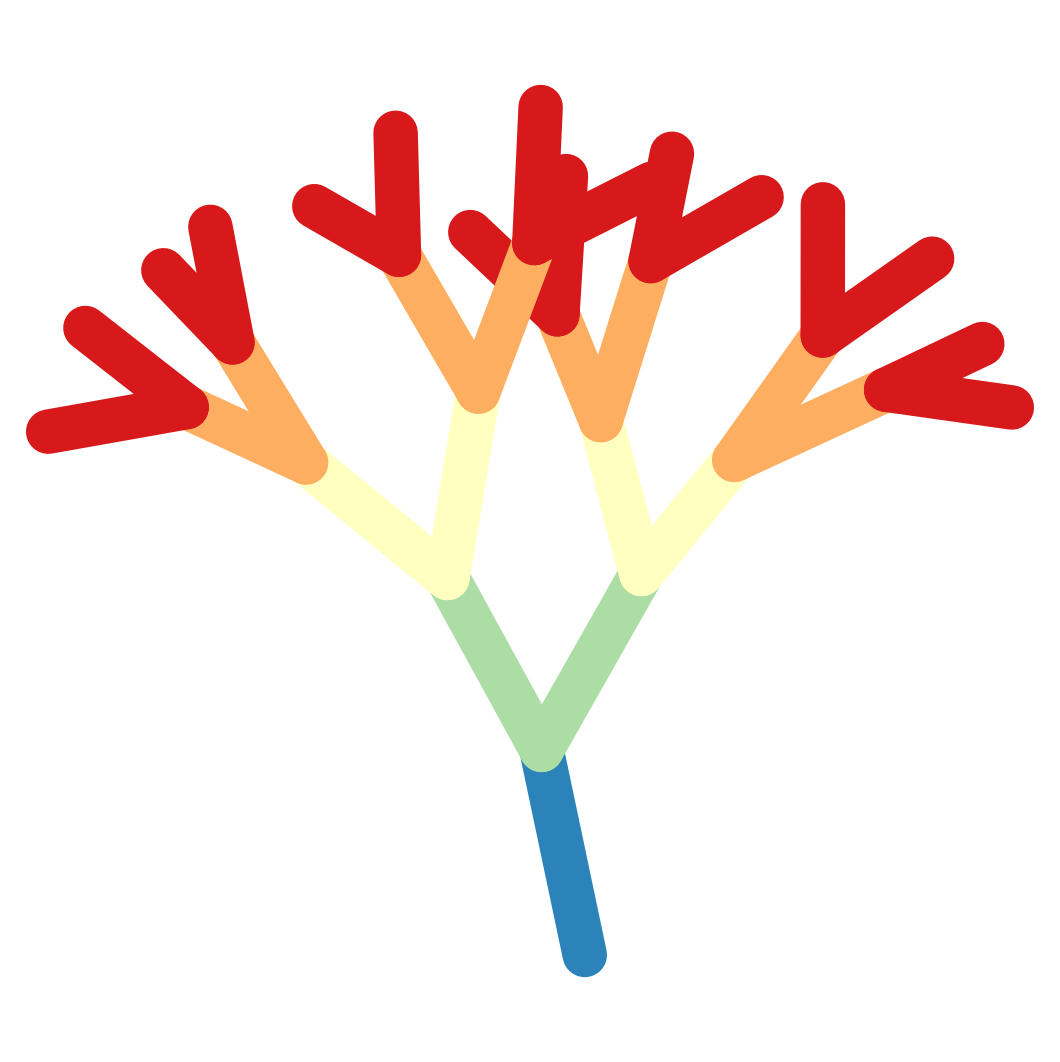
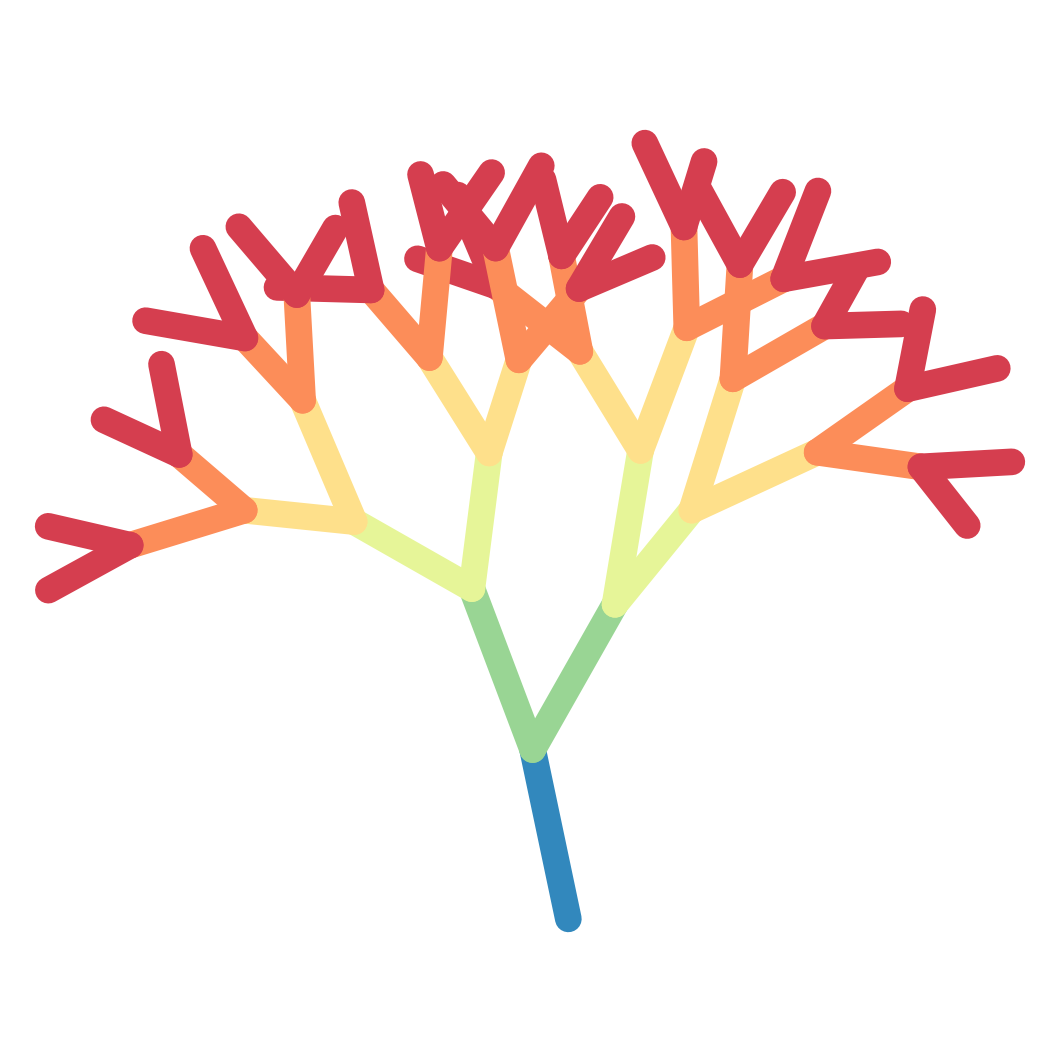
Update sitemap

Changed region(s): [[0.0311, 0.0621, 0.9962, 0.9322]]

diff --git a/index.html b/index.html
@@ -209,7 +209,36 @@
         <h2>Creative Coding Experiments</h2>
         I think creative coding and generative art is pretty interesting. I've been playing with different techniques and ideas. These pieces are still rough, but they were fun to make.
 
-        
+        <div class="section-item">
+          <a href="files/shell.html" onclick="trackOutboundLink(event, 'creative-coding', 'shell');">
+            <img src="images/shell.png" alt="shell" class="section-image">
+          </a>
+          <div class="project-description">
+            <span class="highlight">Shell</span> 
+            &nbsp; 
+            <br class="large-screen-only">
+            <a href="files/shell.html" onclick="trackOutboundLink(event, 'creative-coding', 'shell');">Code</a>
+            &nbsp; 
+            <br class="large-screen-only">
+            This is likely my first creative coding experiment. It's a simple connect-the-dots program that generates a spiral pattern resembling a shell.
+          </div>
+        </div>          
+
+        <div class="section-item">
+          <img src="images/faces.png" alt="perspective" class="section-image">
+          <!-- <a href="files/perspective.html" onclick="trackOutboundLink(event, 'creative-coding', 'perspective');">
+            <img src="images/faces.png" alt="perspective" class="section-image">            
+          </a> -->
+          <div class="project-description">
+            <span class="highlight">Perspective (WIP)</span> 
+            &nbsp; 
+            <!-- <br class="large-screen-only"> -->
+            <!-- <a href="files/perspective.html" onclick="trackOutboundLink(event, 'creative-coding', 'perspective');">Code</a> -->
+            <!-- &nbsp;  -->
+            <br class="large-screen-only">
+            The code visualizes the intersection of 2D planes in 3D space. A perspective transformation is applied to create the illusion of depth. The result is an abstract composition of interlocking blue, gray, and orange planes.
+          </div>
+        </div>
 
         <div class="section-item">
           <a href="files/fractal-tree.html" onclick="trackOutboundLink(event, 'generative-art', 'fractal-tree');">
@@ -222,7 +251,7 @@
             <a href="files/fractal-tree.html" onclick="trackOutboundLink(event, 'generative-art', 'fractal-tree');">Code</a>
             &nbsp; 
             <br class="large-screen-only">
-            The code generates a fractal tree with branches that vary in angle and length to create a more natural appearance.
+            The code generates a fractal tree using a recursive function. Slight variations in branch angles and lengths give the tree a more natural look. The colors of the branches are determined by their recursive depth. The result reminds me of colorful curly parsley.
           </div>
         </div>
 
@@ -252,7 +281,7 @@
             <a href="files/streamlines.html" onclick="trackOutboundLink(event, 'generative-art', 'streamlines');">Code</a>
             &nbsp; 
             <br class="large-screen-only">
-            The code generates a streamline plot using Perlin noise, which creates a smooth, organic pattern. The noise values and their gradients are computed on a grid, and the resulting data is used to draw streamlines with varying colors and transparency. 
+            The code generates a dynamic flow field visualization by creating a grid of points and calculating gradient vectors. These vectors are used to plot streamlines with a gradient color scheme, resulting in a smooth and organic pattern.
           </div>
         </div>
 
@@ -267,7 +296,7 @@
             <a href="files/silhouette.html" onclick="trackOutboundLink(event, 'generative-art', 'silhouette');">Code</a>
             &nbsp; 
             <br class="large-screen-only">
-            The code combines Perlin noise to create a mountain-like silhouette and a color gradient using the viridis palette. The points are created within a grid system with their color determined by position. The silhouette is formed by calculating the intersection of polygons.
+            The code creates a grid of points with colors that vary based on their position, and then filters out points that fall within a mountain-like silhouette. The result resembles a landscape, with the colors that smoothly transitioning from one hue to another.
           </div>
         </div>
 
@@ -286,6 +315,8 @@
           </div>
         </div>
 
+
+
         <div class="section-item">
           <a href="files/diffusion.html" onclick="trackOutboundLink(event, 'creative-coding', 'diffusion');">
             <img src="images/diffusion.png" alt="diffusion" class="section-image">
@@ -300,36 +331,7 @@
             The code simulates the heat diffusion process in a 1D rod using the finite difference method. It visualizes the temperature distribution at different time points, with the colors of the lines representing the maximum temperature at each time.
           </div>
         </div>        
-
-        <div class="section-item">
-          <a href="files/shell.html" onclick="trackOutboundLink(event, 'creative-coding', 'shell');">
-            <img src="images/shell.png" alt="shell" class="section-image">
-          </a>
-          <div class="project-description">
-            <span class="highlight">Shell</span> 
-            &nbsp; 
-            <br class="large-screen-only">
-            <a href="files/shell.html" onclick="trackOutboundLink(event, 'creative-coding', 'shell');">Code</a>
-            &nbsp; 
-            <br class="large-screen-only">
-            This is likely my first creative coding experiment. It's a simple connect-the-dots program that generates a spiral pattern resembling a shell.
-          </div>
-        </div>                
-
-        <div class="section-item">
-          <a href="files/perspective.html" onclick="trackOutboundLink(event, 'creative-coding', 'perspective');">
-            <img src="images/faces.png" alt="perspective" class="section-image">
-          </a>
-          <div class="project-description">
-            <span class="highlight">Perspective (WIP)</span> 
-            &nbsp; 
-            <br class="large-screen-only">
-            <a href="files/perspective.html" onclick="trackOutboundLink(event, 'creative-coding', 'perspective');">Code</a>
-            &nbsp; 
-            <br class="large-screen-only">
-            This code serves as a basic demonstration of creating a 3D perspective grid using the rgl package. TODO: Code perspective transformation explicitly.
-          </div>
-        </div>
+     
 
       <!-- Footer -->
       <footer>
